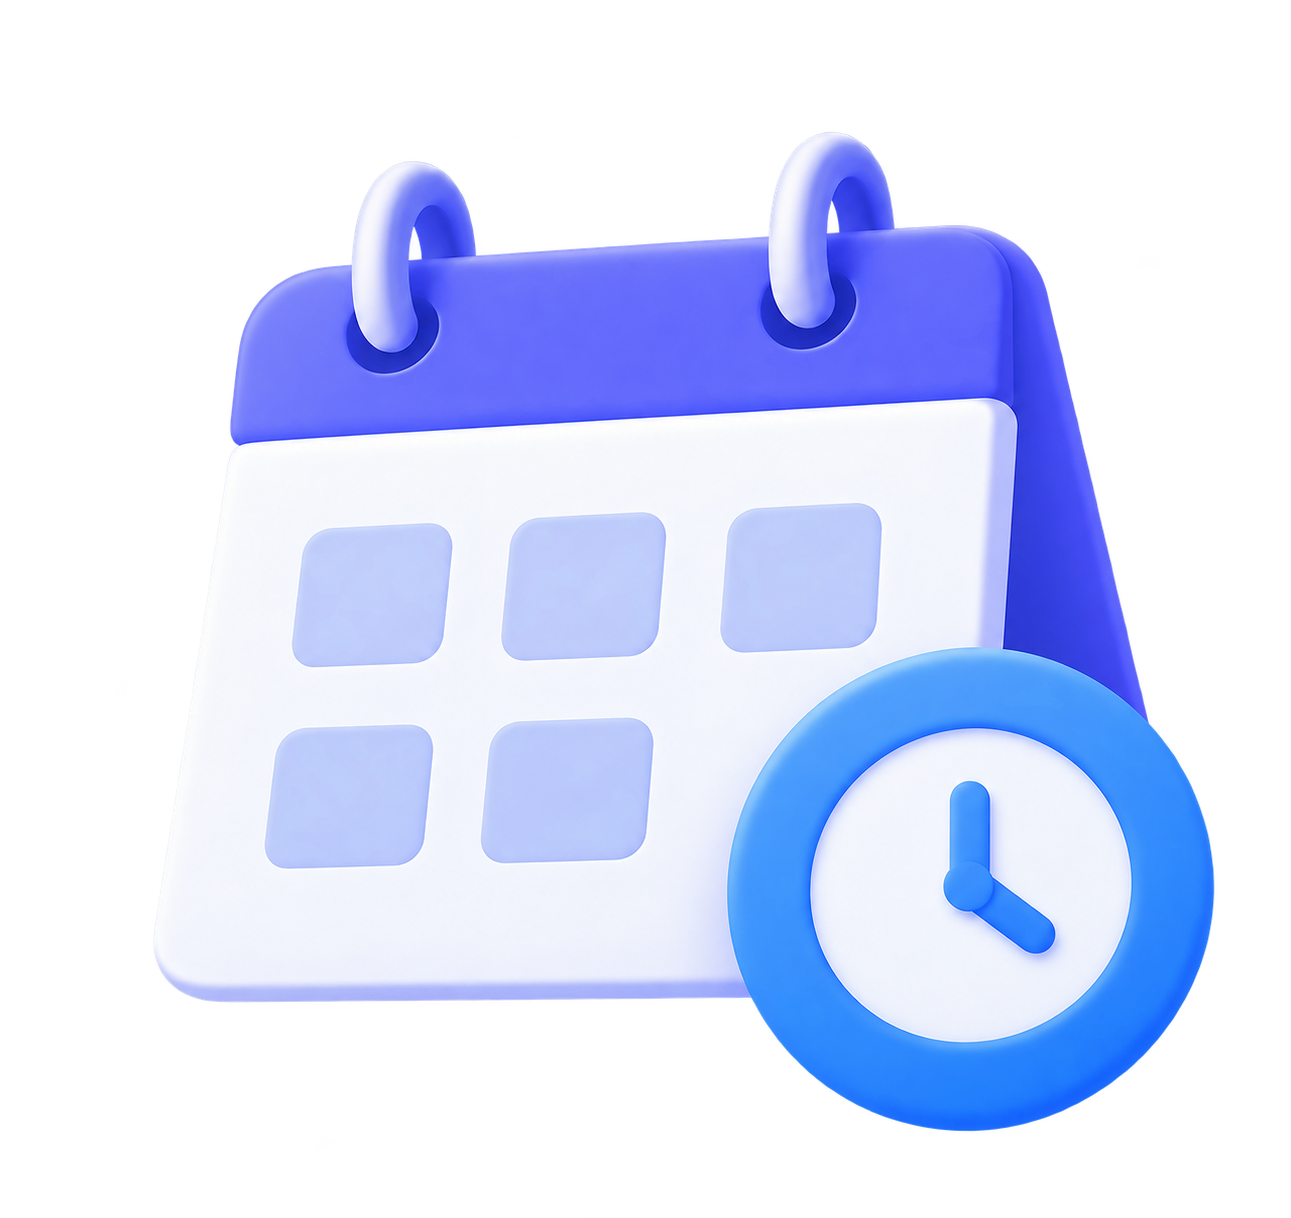
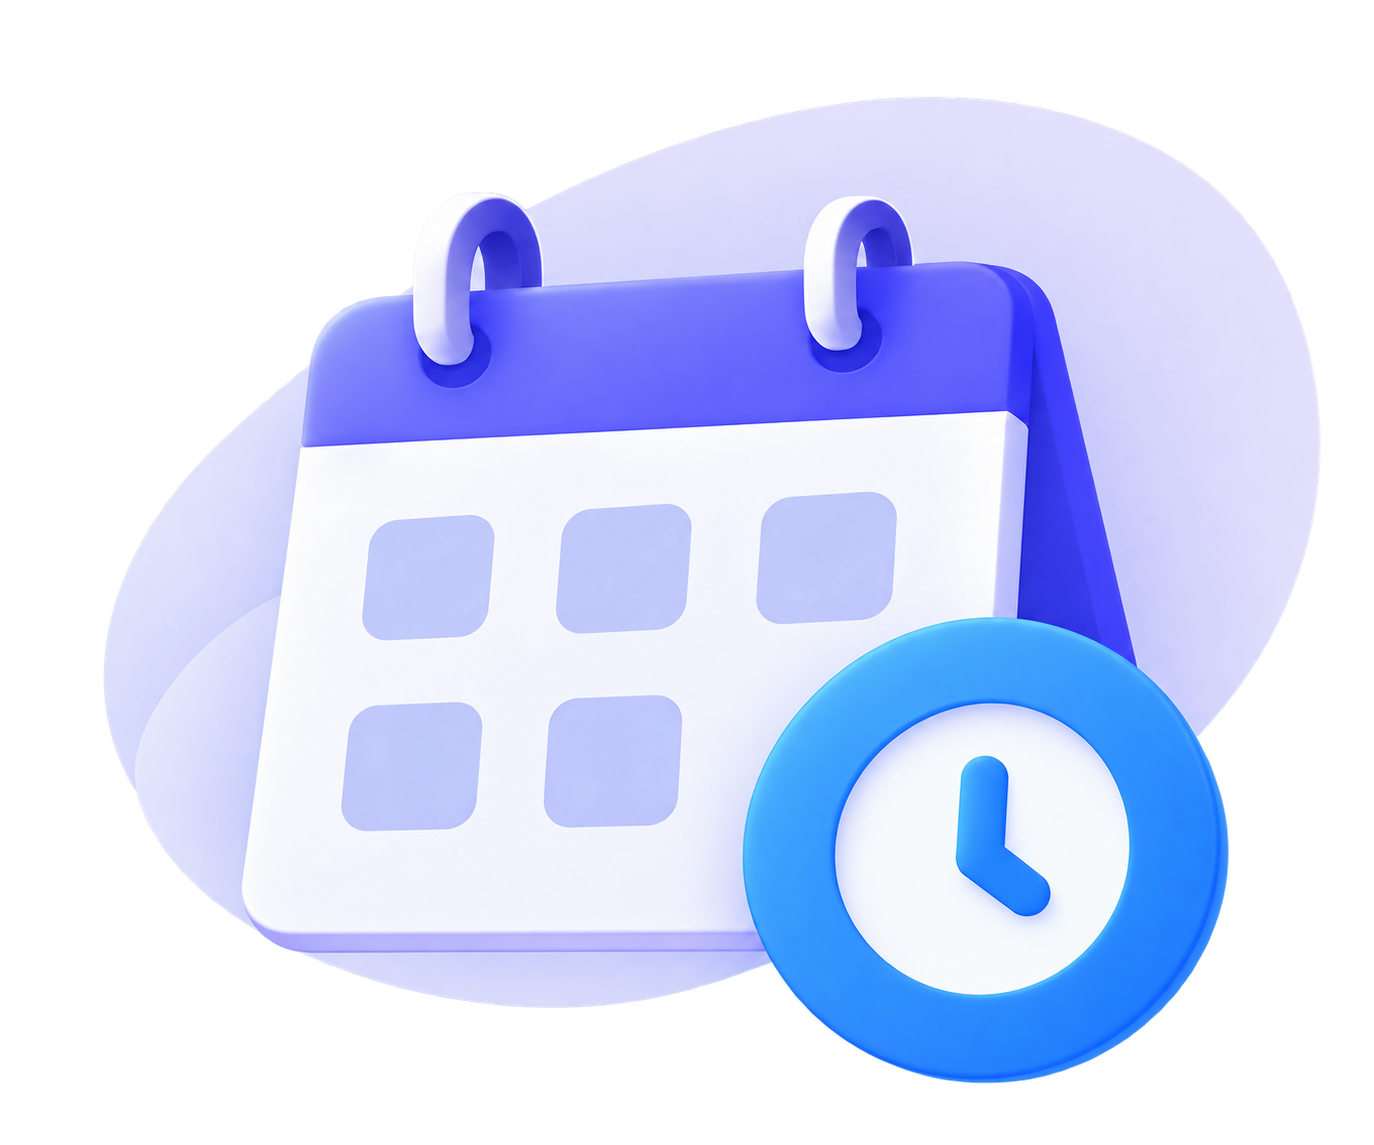
preparation done for carosel highlights

diff --git a/src/components/dashboard/highlights/UpcomingClassHighlight.jsx b/src/components/dashboard/highlights/UpcomingClassHighlight.jsx
@@ -1,10 +1,11 @@
-import { Users, ArrowRight, User } from "lucide-react";
+import {   CalendarDays,Clock, User, ArrowRight } from "lucide-react";
 import { Link } from "react-router-dom";
-import studentUpdate from "../../../assets/highlight-icons/studentUpdate.png";
+import upcomingClass from "../../../assets/highlight-icons/upcomingClass.png";
+import reactLogo from "../../../assets/course-icons/react..png";
 
-function UpcomingClassHighlight() {
-  return (
-    <div className="h-full">
+function UpcomingClassHighlight(){
+    return(
+          <div className="h-full">
           <div className="h-full gap-4 flex flex-col relative">
              <div className="flex items-center justify-between">
                  <h3 className="text-2xl font-bold"> Highlights</h3>
@@ -17,13 +18,13 @@ function UpcomingClassHighlight() {
              </div>
               <div className="flex gap-3">
                   <div className="flex h-20 w-20 shrink-0 
-                        items-center justify-center rounded-xl bg-green-100 text-green-600">
-                    <User size={50} />
+                        items-center justify-center rounded-xl bg-purple-100  text-purple-600">
+                    <CalendarDays size={50} />
                   </div>
 
                   <div className="">
                     <h3 className="font-medium text-2xl  text-slate-900">
-                      Student Updates
+                      Upcoming Class
                     </h3>
 
                     <p className="text-sm text-slate-500 z-10">
@@ -32,28 +33,36 @@ function UpcomingClassHighlight() {
                   </div>
               </div>
 
-              <div className="grid gap-2">
-                <h2 className="mt-2  text-4xl font-bold text-slate-900">
-                  +7
-                </h2>
-
-                <p className="text-lg text-slate-500">
-                  New Students - 85 total
-                </p>
+              <div className="grid p-5 items-center gap-2 min-h-32 grid-cols-[1fr_2fr] w-[50%]
+               border-gray-200 border rounded-md bg-blue-50">
+                
+                <div className="w-full h-[90%] grid justify-center">
+                  <img src={reactLogo} className="w-15" alt="" />
+                </div>
+                <div className="h-[90%] ">
+                   <h1 className="font-bold mb-1">React.js Bootcamp</h1>
+                   <div>
+                      <CalendarDays className="w-5" />
+                      <Clock className="w-5" />
+                      <span className="flex gap-2">
+                         <User className="w-5 shrink-0" /> Instructor : John Doe
+                      </span>
+                      
+                   </div>
+                </div>
               </div>
 
-              <button className="bg-blue-300 hover:cursor-pointer rounded-2xl h-13 p-5 mt-auto  flex w-fit items-center gap-2 text-lg font-medium text-blue-600">
-                View Students
+              <button className="bg-blue-300 hover:cursor-pointer rounded-2xl h-10 p-5 mt-auto  flex w-fit items-center gap-2 text-lg font-medium text-blue-600">
+                View Schedule
                 <ArrowRight size={16} />
               </button>
 
-                <img src={studentUpdate}
-                  className="max-w-50 absolute right-0 top-1/2 -translate-y-1/3 " />
-       
+              <div className="absolute right-0 top-1/2 -translate-y-1/3">
+                <img src={upcomingClass}
+                  className="max-w-47 z " />
+              </div>
           </div>
     </div>
-    
-  );
-};
-
+    )
+}
 export default UpcomingClassHighlight;

diff --git a/src/components/dashboard/highlights/StudentUpdateHighlight.jsx b/src/components/dashboard/highlights/StudentUpdateHighlight.jsx
@@ -1,0 +1,59 @@
+import { Users, ArrowRight, User } from "lucide-react";
+import { Link } from "react-router-dom";
+import studentUpdate from "../../../assets/highlight-icons/studentUpdate.png";
+
+function StudentUpdateHighlight() {
+  return (
+    <div className="h-full">
+          <div className="h-full gap-4 flex flex-col relative">
+             <div className="flex items-center justify-between">
+                 <h3 className="text-2xl font-bold"> Highlights</h3>
+                 <div className="flex gap-3">
+                    <span className="w-5 h-5 bg-gray-400 rounded-full"></span>
+                    <span className="w-5 h-5 bg-gray-400 rounded-full"></span>
+                    <span className="w-5 h-5 bg-gray-400 rounded-full"></span>
+                    <span className="w-5 h-5 bg-gray-400 rounded-full"></span>
+                 </div>
+             </div>
+              <div className="flex gap-3">
+                  <div className="flex h-20 w-20 shrink-0 
+                        items-center justify-center rounded-xl bg-green-100 text-green-600">
+                    <User size={50} />
+                  </div>
+
+                  <div className="">
+                    <h3 className="font-medium text-2xl  text-slate-900">
+                      Student Updates
+                    </h3>
+
+                    <p className="text-sm text-slate-500 z-10">
+                      12 students have outstanding payments
+                    </p>
+                  </div>
+              </div>
+
+              <div className="grid gap-2">
+                <h2 className="mt-2  text-4xl font-bold text-slate-900">
+                  +7
+                </h2>
+
+                <p className="text-lg text-slate-500">
+                  New Students - 85 total
+                </p>
+              </div>
+
+              <button className="bg-blue-300 hover:cursor-pointer rounded-2xl h-13 p-5 mt-auto  flex w-fit items-center gap-2 text-lg font-medium text-blue-600">
+                View Students
+                <ArrowRight size={16} />
+              </button>
+
+                <img src={studentUpdate}
+                  className="max-w-50 absolute right-0 top-1/2 -translate-y-1/3 " />
+       
+          </div>
+    </div>
+    
+  );
+};
+
+export default StudentUpdateHighlight;

diff --git a/src/components/dashboard/ShowHighlights.jsx b/src/components/dashboard/ShowHighlights.jsx
@@ -1,11 +1,12 @@
 import PaymentRemiderHighlight from "./highlights/PaymentRemiderHighlight";
 import UpcomingClassHighlight from "./highlights/UpcomingClassHighlight";
 import CourseUpdateHighlight from "./highlights/CourseUpdateHighlight";
+import StudentUpdateHighlight from "./highlights/StudentUpdateHighlight";
 function ShowHighlights (){
         return (
-             <div className="w-full bg-white h-full shadow-md rounded-xl flex justify-center p-2 items-center">
+             <div className="w-full bg-white min-h-full shadow-sm rounded-xl flex justify-center p-2 items-center">
                 <div className="w-[90%] h-[90%]  rounded-2xl">
-                        <CourseUpdateHighlight />
+                        <UpcomingClassHighlight />
                 </div>
             </div>
         )

diff --git a/src/components/dashboard/PaymentStatus.jsx b/src/components/dashboard/PaymentStatus.jsx
@@ -1,7 +1,7 @@
 import PaymentStatusPieChart from './PaymentStatusPieChart'
 function PaymentStatus(){
     return(
-        <div className="w-full bg-white h-90 shadow-md rounded-xl flex justify-center p-2 items-center">
+        <div className="w-full bg-white h-90 shadow-sm rounded-xl flex justify-center p-2 items-center">
             <div className="w-[90%]   rounded-2xl">
                     <PaymentStatusPieChart />
             </div>
